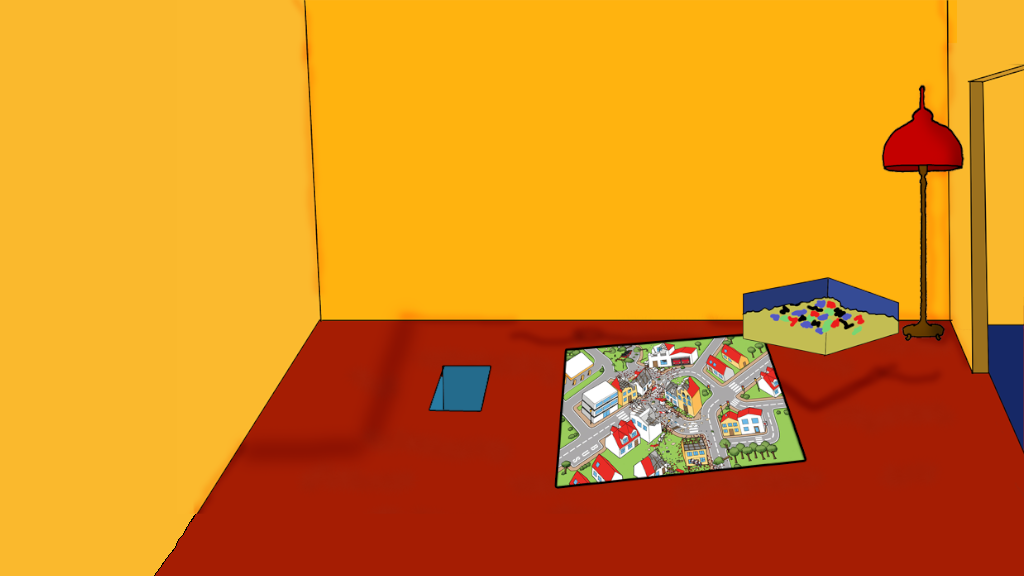
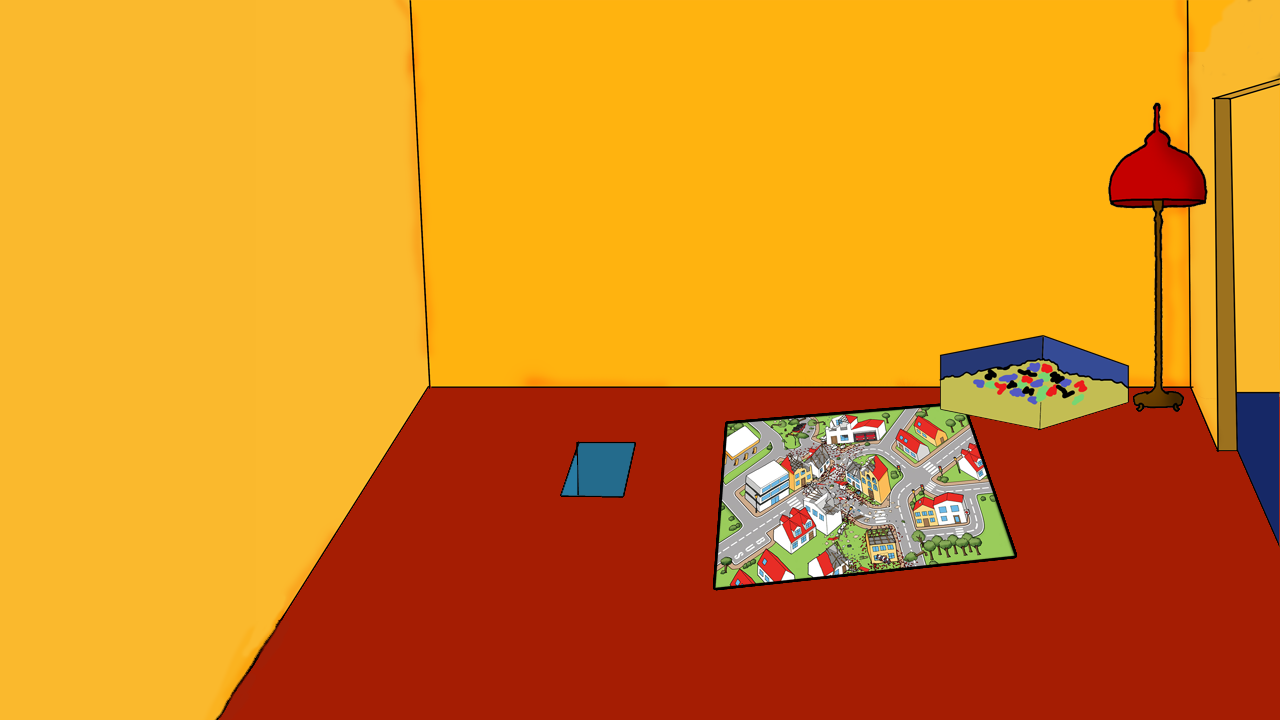
Mehr Buttons, und Widescreen test

Changed region(s): [[0.1562, 0.0, 1.0, 1.0], [0.375, 0.5938, 0.5, 0.7188], [0.8125, 0.625, 0.875, 0.6875]]

diff --git a/core/src/main/kotlin/org/wanne/game/screens/menu/OptionsScreen.kt b/core/src/main/kotlin/org/wanne/game/screens/menu/OptionsScreen.kt
@@ -7,6 +7,7 @@ import com.badlogic.gdx.scenes.scene2d.ui.Label
 import com.badlogic.gdx.scenes.scene2d.ui.Slider
 import com.badlogic.gdx.scenes.scene2d.utils.ChangeListener
 import org.wanne.game.Language
+import org.wanne.game.VideoMode
 import org.wanne.game.WanneGame
 import org.wanne.game.sound.Speech
 
@@ -26,6 +27,9 @@ class OptionsScreen(
     lateinit var engButton: ImageButton
     lateinit var orgButton: ImageButton
     lateinit var droglButton: ImageButton
+
+    lateinit var classicButton: ImageButton
+    lateinit var modernButton: ImageButton
 
     override fun buildMenu() {
         val soundVolumeLabel = Label("${soundVolumeLabelText}${parsePercent(game.config.soundVolume)}%", game.wanneSkin)
@@ -63,11 +67,12 @@ class OptionsScreen(
         stage.addActor(musicVolumeLabel)
         stage.addActor(musicSlider)
 
-        createLangButtons()
         createLanguageSensitiveObjects()
+        createLangButtons()
+        createModeButtons()
     }
 
-    private fun updateLanguageSensitiveObjects() {
+    private fun updateObjects() {
         optionsTitle.remove()
         languageLabel.remove()
         modeLabel.remove()
@@ -78,8 +83,12 @@ class OptionsScreen(
         orgButton.remove()
         droglButton.remove()
 
+        classicButton.remove()
+        modernButton.remove()
+
         createLanguageSensitiveObjects()
         createLangButtons()
+        createModeButtons()
     }
 
     private fun createLanguageSensitiveObjects() {
@@ -132,7 +141,7 @@ class OptionsScreen(
 
         stage.addActor(optionsTitle)
         stage.addActor(languageLabel)
-        //stage.addActor(modeLabel)
+        stage.addActor(modeLabel)
         stage.addActor(backButton)
     }
 
@@ -154,7 +163,7 @@ class OptionsScreen(
                     actor: Actor?,
                 ) {
                     game.config.speech = Speech.DE_NEU.speech
-                    updateLanguageSensitiveObjects()
+                    updateObjects()
                 }
             },
         )
@@ -172,7 +181,7 @@ class OptionsScreen(
                     actor: Actor?,
                 ) {
                     game.config.speech = Speech.EN.speech
-                    updateLanguageSensitiveObjects()
+                    updateObjects()
                 }
             },
         )
@@ -190,7 +199,7 @@ class OptionsScreen(
                     actor: Actor?,
                 ) {
                     game.config.speech = Speech.DE_ORIGINAL.speech
-                    updateLanguageSensitiveObjects()
+                    updateObjects()
                 }
             },
         )
@@ -208,7 +217,7 @@ class OptionsScreen(
                     actor: Actor?,
                 ) {
                     game.config.speech = Speech.DROGL.speech
-                    updateLanguageSensitiveObjects()
+                    updateObjects()
                 }
             },
         )
@@ -219,8 +228,57 @@ class OptionsScreen(
         stage.addActor(droglButton)
     }
 
+    private fun createModeButtons() {
+        classicButton = game.createUIButton(
+            mainButtonAtlas.createSprite("classicButton" + getButtonSelectionState(VideoMode.CLASSIC)),
+            mainButtonAtlas.createSprite("classicButton_pressed"),
+            560f,
+            149F,
+        )
+        classicButton.addListener(
+            object : ChangeListener() {
+                override fun changed(
+                    event: ChangeEvent?,
+                    actor: Actor?,
+                ) {
+                    game.config.mode = VideoMode.CLASSIC.toString()
+                    updateObjects()
+                }
+            },
+        )
+
+        modernButton = game.createUIButton(
+            mainButtonAtlas.createSprite("modernButton" + getButtonSelectionState(VideoMode.MODERN)),
+            mainButtonAtlas.createSprite("modernButton_pressed"),
+            735f,
+            150F,
+        )
+        modernButton.addListener(
+            object : ChangeListener() {
+                override fun changed(
+                    event: ChangeEvent?,
+                    actor: Actor?,
+                ) {
+                    game.config.mode = VideoMode.MODERN.toString()
+                    updateObjects()
+                }
+            },
+        )
+
+        stage.addActor(classicButton)
+        stage.addActor(modernButton)
+    }
+
     private fun getButtonSelectionState(speech: Speech) : String {
         return if(game.currentLang() == speech) {
+            "_selected"
+        } else {
+            ""
+        }
+    }
+
+    private fun getButtonSelectionState(mode: VideoMode) : String {
+        return if(game.config.mode == mode.toString()) {
             "_selected"
         } else {
             ""

diff --git a/core/src/main/kotlin/org/wanne/game/screens/game/RoomScreen.kt b/core/src/main/kotlin/org/wanne/game/screens/game/RoomScreen.kt
@@ -5,6 +5,7 @@ import com.badlogic.gdx.audio.Music
 import com.badlogic.gdx.graphics.Texture
 import com.badlogic.gdx.scenes.scene2d.ui.Image
 import com.badlogic.gdx.utils.viewport.FitViewport
+import org.wanne.game.VideoMode
 import org.wanne.game.WanneGame
 import org.wanne.game.listener.PointAndClickListener
 import org.wanne.game.model.animation.FireAnimation
@@ -46,6 +47,7 @@ class RoomScreen(
     // Background
     private val roomBackgroundSingle: Texture = game.am.get("pictures/Backgrounds/KinderzimmerSingle.png")
     private val roomBackgroundMulti: Texture = game.am.get("pictures/Backgrounds/Kinderzimmer.png")
+    private val roomBackgroundSingleWide: Texture = game.am.get("pictures/Backgrounds/Kinderzimmer169.png")
 
     // Raum Lauf-Limits => links, unten, rechts, oben
     private val limits = intArrayOf(255, 129, 934, 312)
@@ -95,15 +97,19 @@ class RoomScreen(
     private val duck = Duck(600F, 200F, Player.Companion.Looking.LEFT, am = game.am)
 
     override fun show() {
-        Gdx.graphics.setWindowedMode(1024, 768)
-        viewport = FitViewport(1024f, 768f)
+        Gdx.graphics.setWindowedMode(game.config.getResolutionX(), game.config.getResolutionY())
+        viewport = FitViewport(game.config.getResolutionX().toFloat(), game.config.getResolutionY().toFloat())
 
         stage = PointAndClickAwareStage(viewport, poolAttendant, duck, listOf(fireAnimation, powerUpAnimation))
         Gdx.input.inputProcessor = stage
 
         // Hintergrund setzen
         if (game.isSingleplayer) {
-            stage.addActor(Image(roomBackgroundSingle))
+            if (game.config.mode == VideoMode.CLASSIC.toString()) {
+                stage.addActor(Image(roomBackgroundSingle))
+            } else {
+                stage.addActor(Image(roomBackgroundSingleWide))
+            }
         } else {
             stage.addActor(Image(roomBackgroundMulti))
         }

diff --git a/core/src/main/kotlin/org/wanne/game/model/AbstractObject.kt b/core/src/main/kotlin/org/wanne/game/model/AbstractObject.kt
@@ -5,6 +5,7 @@ import com.badlogic.gdx.graphics.g2d.Sprite
 import com.badlogic.gdx.graphics.g2d.TextureAtlas
 import com.badlogic.gdx.scenes.scene2d.Actor
 import org.wanne.game.AssetsManager
+import org.wanne.game.VideoMode
 import org.wanne.game.WanneGame
 
 abstract class AbstractObject(
@@ -21,8 +22,8 @@ abstract class AbstractObject(
     abstract fun getSprite(time: Float): Sprite
 
     fun addPositionToSprite(sprite: Sprite): Sprite {
-        sprite.x = posX
-        sprite.y = posY
+        sprite.x = correctPositionX(posX.toInt()).toFloat()
+        sprite.y = correctPositionY(posY.toInt()).toFloat()
         return sprite
     }
 
@@ -58,5 +59,15 @@ abstract class AbstractObject(
     override fun setScale(scaleX: Float, scaleY: Float) {
         this.scaleX = scaleX
         this.scaleY = scaleY
+    }
+
+    fun correctPositionX(currentX: Int) : Int {
+        val extra = if (game.config.mode == VideoMode.MODERN.toString()) {252} else {0}
+        return currentX + extra
+    }
+
+    fun correctPositionY(currentY: Int) : Int {
+        val extra = if (game.config.mode == VideoMode.MODERN.toString()) {-50} else {0}
+        return currentY + extra
     }
 }

diff --git a/core/src/main/kotlin/org/wanne/game/Config.kt b/core/src/main/kotlin/org/wanne/game/Config.kt
@@ -5,7 +5,7 @@ import com.badlogic.gdx.Preferences
 import ktx.preferences.set
 import org.wanne.game.sound.Speech
 
-class Config {
+class Config(android: Boolean) {
 
     private var prefs: Preferences = Gdx.app.getPreferences("prefs")
 
@@ -23,7 +23,7 @@ class Config {
 
     var speech: String = Speech.DE_ORIGINAL.speech
 
-    var mode: String = VideoMode.CLASSIC.toString()
+    var mode: String = if (android) {VideoMode.CLASSIC.toString()} else {VideoMode.MODERN.toString()}
 
     fun saveSettings() {
         prefs["ipAddress"] = ipAddress
@@ -36,6 +36,22 @@ class Config {
         prefs["mode"] = mode
 
         prefs.flush()
+    }
+
+    fun getResolutionX() : Int {
+        return when(mode) {
+            VideoMode.CLASSIC.toString() -> 1024
+            VideoMode.MODERN.toString() -> 1280
+            else -> 1024
+        }
+    }
+
+    fun getResolutionY() : Int {
+        return when(mode) {
+            VideoMode.CLASSIC.toString() -> 768
+            VideoMode.MODERN.toString() -> 720
+            else -> 768
+        }
     }
 
 }

diff --git a/core/src/main/kotlin/org/wanne/game/model/objects/Door.kt b/core/src/main/kotlin/org/wanne/game/model/objects/Door.kt
@@ -12,8 +12,8 @@ class Door(
     game: WanneGame
 ) : GameObject(posX, posY, game) {
     init {
-        x = posX
-        y = posY
+        x = correctPositionX(posX.toInt()).toFloat()
+        y = correctPositionY(posY.toInt()).toFloat()
         height = getSprite(0F).height
         width = getSprite(0F).width
     }
@@ -43,8 +43,8 @@ class Door(
 
     override fun getInteractPosition(): Pair<org.wanne.game.model.Point, Player.Companion.Looking> = Pair(
         org.wanne.game.model.Point(
-            862,
-            216
+            correctPositionX(862),
+            correctPositionY(216)
         ), Player.Companion.Looking.RIGHT)
 
     override fun getToolTipDescription(): String = choose("Tür", "Door")

diff --git a/core/src/main/kotlin/org/wanne/game/screens/game/PuzzleScreen.kt b/core/src/main/kotlin/org/wanne/game/screens/game/PuzzleScreen.kt
@@ -42,8 +42,8 @@ class PuzzleScreen(
     private val musicBackground: Music = game.am.get("soundsOriginal/Background/jeopardy.mp3")
 
     override fun show() {
-        Gdx.graphics.setWindowedMode(1024, 768)
-        viewport = FitViewport(1024f, 768f)
+        Gdx.graphics.setWindowedMode(game.config.getResolutionX(), game.config.getResolutionY())
+        viewport = FitViewport(game.config.getResolutionX().toFloat(), game.config.getResolutionY().toFloat())
 
         musicBackground.volume = 0.2F
         musicBackground.isLooping = true

diff --git a/core/src/main/kotlin/org/wanne/game/screens/game/OutsideScreen.kt b/core/src/main/kotlin/org/wanne/game/screens/game/OutsideScreen.kt
@@ -51,8 +51,8 @@ class OutsideScreen(
     private val goldBag = GoldBag(game = game)
 
     override fun show() {
-        Gdx.graphics.setWindowedMode(1024, 768)
-        viewport = FitViewport(1024f, 768f)
+        Gdx.graphics.setWindowedMode(game.config.getResolutionX(), game.config.getResolutionY())
+        viewport = FitViewport(game.config.getResolutionX().toFloat(), game.config.getResolutionY().toFloat())
 
         stage = PointAndClickAwareStage(viewport, poolAttendant, duck, emptyList())
         Gdx.input.inputProcessor = stage

diff --git a/core/src/main/kotlin/org/wanne/game/screens/game/CowPhoneScreen.kt b/core/src/main/kotlin/org/wanne/game/screens/game/CowPhoneScreen.kt
@@ -36,8 +36,8 @@ class CowPhoneScreen(
     private val cow = Cow(game = game)
 
     override fun show() {
-        Gdx.graphics.setWindowedMode(1024, 768)
-        viewport = FitViewport(1024f, 768f)
+        Gdx.graphics.setWindowedMode(game.config.getResolutionX(), game.config.getResolutionY())
+        viewport = FitViewport(game.config.getResolutionX().toFloat(), game.config.getResolutionY().toFloat())
 
         musicBackground.volume = 0.4F
         musicBackground.isLooping = true

diff --git a/core/src/main/kotlin/org/wanne/game/model/objects/GameObject.kt b/core/src/main/kotlin/org/wanne/game/model/objects/GameObject.kt
@@ -5,6 +5,7 @@ import com.badlogic.gdx.scenes.scene2d.Stage
 import com.badlogic.gdx.scenes.scene2d.ui.Skin
 import com.badlogic.gdx.scenes.scene2d.ui.TextTooltip
 import org.wanne.game.Language
+import org.wanne.game.VideoMode
 import org.wanne.game.WanneGame
 import org.wanne.game.model.AbstractObject
 import org.wanne.game.model.Point
@@ -185,4 +186,5 @@ abstract class GameObject(
         }
         return "Droglbecher$sign"
     }
+
 }

diff --git a/core/src/main/kotlin/org/wanne/game/AssetsManager.kt b/core/src/main/kotlin/org/wanne/game/AssetsManager.kt
@@ -39,6 +39,7 @@ class AssetsManager {
 
         assetManager.load("pictures/Backgrounds/KinderzimmerSingle.png", Texture::class.java)
         assetManager.load("pictures/Backgrounds/Kinderzimmer.png", Texture::class.java)
+        assetManager.load("pictures/Backgrounds/Kinderzimmer169.png", Texture::class.java)
     }
 
     fun loadSprites() {

diff --git a/core/src/main/kotlin/org/wanne/game/WanneGame.kt b/core/src/main/kotlin/org/wanne/game/WanneGame.kt
@@ -72,7 +72,7 @@ class WanneGame(val android: Boolean): Game() {
 
     override fun create() {
         batch = SpriteBatch()
-        config = Config()
+        config = Config(android)
         soundManager = SoundManager(config)
         dialogManager = DialogManager(config, soundManager)
 
